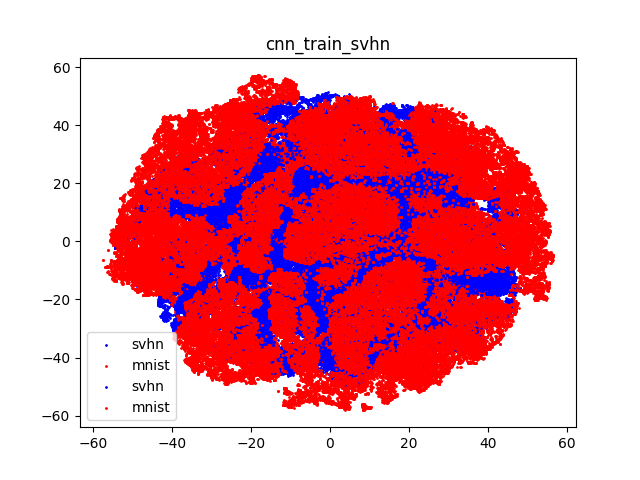
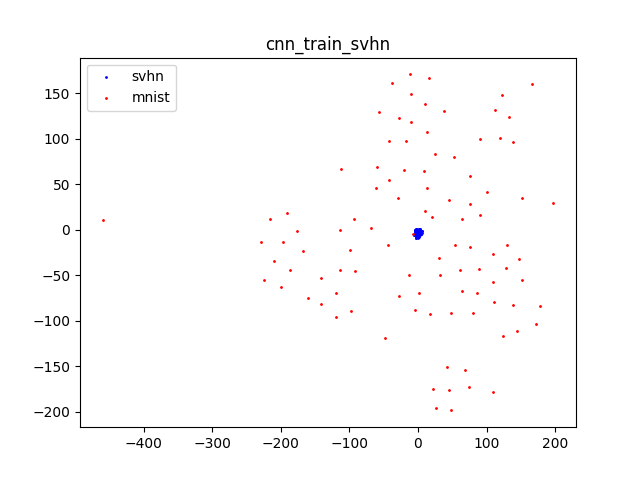
Add subset tsne Edit README.md

diff --git a/plot_features.py b/plot_features.py
@@ -7,11 +7,12 @@ from sklearn.manifold import t_sne
 import matplotlib.pyplot as plt
 import os
 
-pp = Preprocessor(subset=None)
+subset = 3000
+pp = Preprocessor(subset=subset)
 (x_train_svhn, y_train_svhn), (x_test_svhn, y_test_svhn) = pp.get_one_domain_data('svhn')
 (x_train_mnist, y_train_mnist), (x_test_mnist, y_test_mnist) = pp.get_one_domain_data('mnist')
 
-def plot_features(model_class=CNNGRL, model_weights='cnn_grl_train_svhn'):
+def plot_features(model_class=CNNGRL, model_weights='cnn_grl_train_svhn', subset=subset):
     model = model_class()
     model._build()
     model._load_weights(model_weights)
@@ -30,11 +31,16 @@ def plot_features(model_class=CNNGRL, model_weights='cnn_grl_train_svhn'):
     tsne_svhn = t_sne.TSNE().fit_transform(features_svhn)
     tsne_mnist = t_sne.TSNE().fit_transform(features_mnist)
 
+    plt.close()
     plt.scatter(tsne_svhn[:, 0], tsne_svhn[:, 1], color='b', s=1, label='svhn')
     plt.scatter(tsne_mnist[:, 0], tsne_mnist[:, 1], color='r', s=1, label='mnist')
     plt.title(model_weights)
     plt.legend()
-    save_dir = 'img/tsne_features/'
+
+    if subset is None:
+        save_dir = 'img/tsne_features/'
+    else:
+        save_dir = 'img/tsne_features_' + str(subset) + '/'
     if not os.path.isdir(save_dir):
         os.makedirs(save_dir)
     plt.savefig(save_dir + model_weights + '.png')

diff --git a/README.md b/README.md
@@ -23,20 +23,6 @@ python utils/download_data.py
 
 All the configuration variables are in the file utils/config.py.  
 
-## Train a specific model
-
-To display training options
-
-```bash
-python train.py -h
-```
-
-## Load weights and evaluate models
-
-```bash
-python evaluate.py
-```
-
 ## Architectures
 
 To have a baseline of the performance without domain adaptation, I tested a simple Convolutional Neural Network. The architecture is described in this picture: [cnn].
@@ -53,6 +39,20 @@ The architecture is described in those pictures: [cnn_grl_model] and [cnn_grl_fe
 - lambda evolution:   
 <a href="https://www.codecogs.com/eqnedit.php?latex=\lambda&space;=&space;\frac&space;{2}&space;{1&space;&plus;&space;exp(-10&space;*&space;epoch&space;/&space;maxepoch)}&space;-&space;1" target="_blank"><img src="https://latex.codecogs.com/gif.latex?\lambda&space;=&space;\frac&space;{2}&space;{1&space;&plus;&space;exp(-10&space;*&space;epoch&space;/&space;maxepoch)}&space;-&space;1" title="\lambda = \frac {2} {1 + exp(-10 * epoch / maxepoch)} - 1" /></a>  
 
+## Train a specific model
+
+To display training options
+
+```bash
+python train.py -h
+```
+
+## Load weights and evaluate models
+
+```bash
+python evaluate.py
+```
+
 ## Results
     
 | Network       | Source (accuracy) | Target (accuracy) |
@@ -62,8 +62,24 @@ The architecture is described in those pictures: [cnn_grl_model] and [cnn_grl_fe
 | CNN           | MNIST (0.986)     | SVHN (0.230)      |
 | CNN-GRL       | MNIST (0.982)     | SVHN (0.238)      |
 
+It seems than the Gradient Reversal Layer leads to a significative improvement of the network to classify MNIST when it has been trained on SVHN. However, the opposite task isn't more effective with the GRL.
+
+## Features visualization
+
+The next two plots are a visualization of the features built by different networks. It is a t-sne with 2 components of the output of the Dense layer with 512 units in each network. I only used 3000 samples to make t-sne computation faster.
+
+![tsne_cnn_grl]
+![tsne_cnn]
+
+The goal of the network with gradient reversal layer is to build features independent of the input distribution samples (MNIST or SVHN for example). Thus, the features built by the CNN-GRL network should be more mixed than the one built by the classic CNN.  
+Even if it isn't completely obvious, the features built by the CNN-GRL architecture seem to be more mixed than the ones built by the CNN architecture.  
+The same calculation on the whole datasets would probably lead to a more obvious result.
+
+
 
 [cnn]: img/model_architecture/cnn.png "CNN architecture"
 [cnn_grl_model]: img/model_architecture/cnn_grl/model.png "CNN-GRL architecture"
 [cnn_grl_fe]: img/model_architecture/cnn_grl/feature_extractor.png "CNN-GRL architecture"
+[tsne_cnn_grl]: img/tsne_features_3000/cnn_grl_train_svhn.png "CNN-GRL features visualization (trained on SVHN)"
+[tsne_cnn]: img/tsne_features_3000/cnn_train_svhn.png "CNN features visualization (trained on SVHN)"
 [Unsupervised Domain Adaptation by Backpropagation]: https://arxiv.org/pdf/1409.7495.pdf
